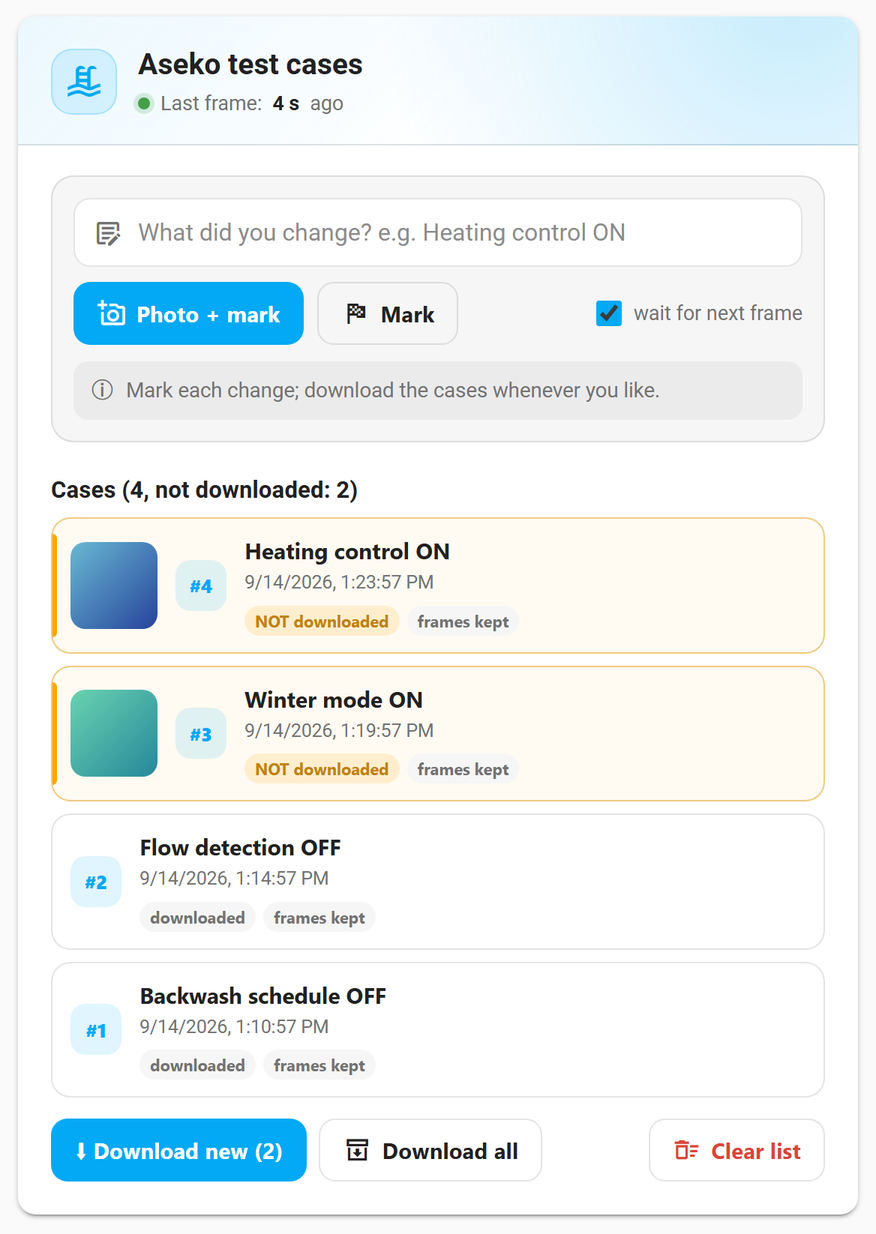
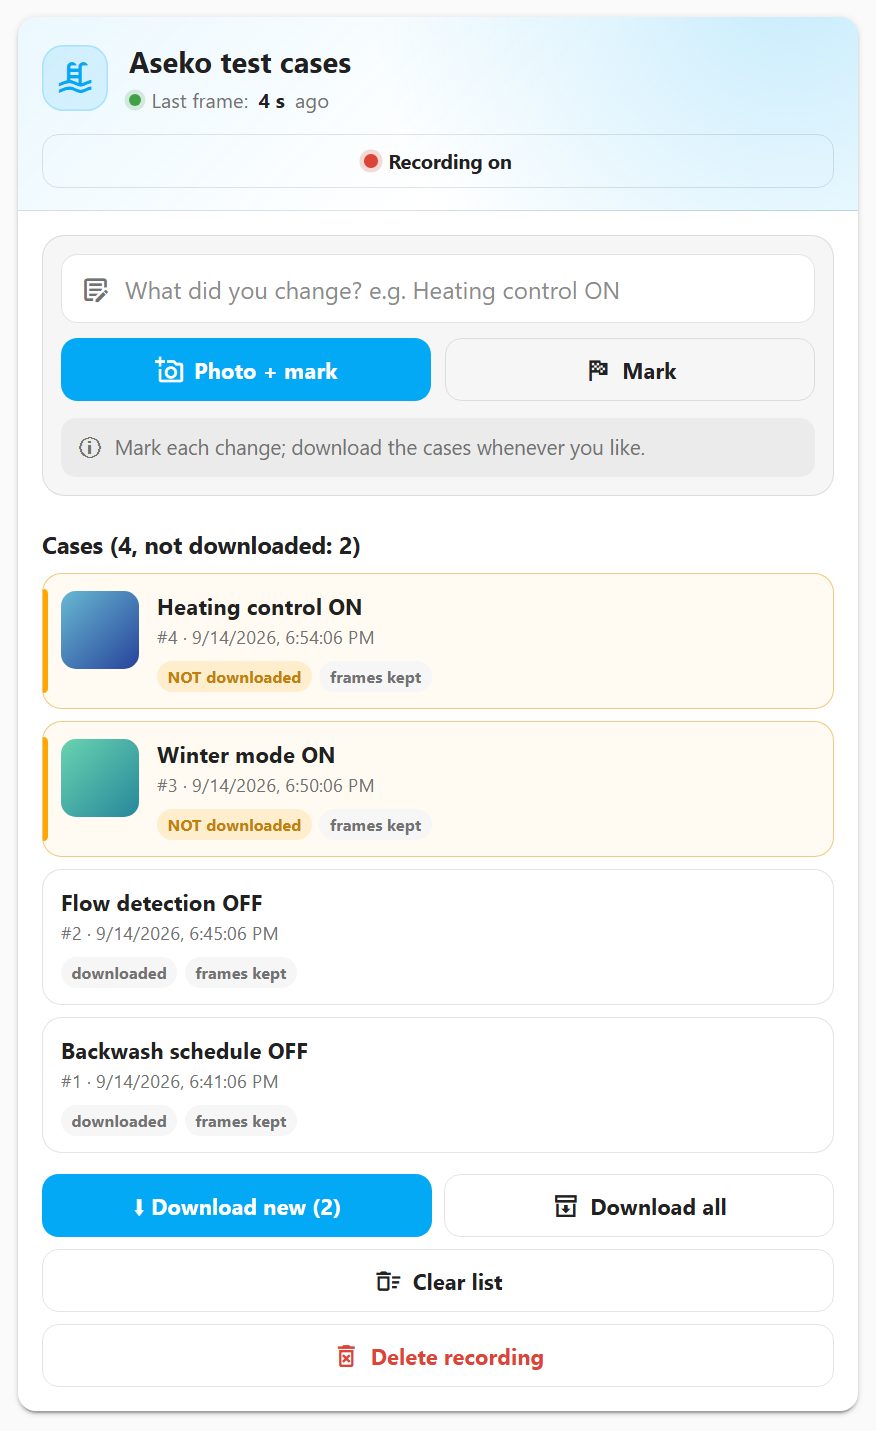
docs(README): test cases card screenshot with the recording switch, steps and buttons

diff --git a/README.md b/README.md
@@ -51,7 +51,9 @@ If you own an Aseko unit that is not listed above as fully supported, or the [su
 
 <img src="images/aseko_test_cases_card.png" alt="Aseko test cases card" width="438">
 
-**How it works.** While recording is on, the integration keeps a *frame log*: every frame the unit sends, compressed and capped at 256 kB (about five days of frames), kept across Home Assistant restarts. Recording is **off** until you turn it on in the card, and it stays the way you left it across restarts and updates. Each time you record a test case, the card writes a *marker* into that log, with your note and, if you like, a photo of the unit's display. Every change you make on the unit then sits right next to the frames that carry it — nobody has to compare clocks, and messengers cannot strip the time from the photos.
+**How it works.** While recording is on, the integration keeps a *frame log*: every frame the unit sends, compressed and capped at 256 kB (about five days of frames), kept across Home Assistant restarts. Each time you record a test case, the card writes a *marker* into that log, with your note and, if you like, a photo of the unit's display. Every change you make on the unit then sits right next to the frames that carry it — nobody has to compare clocks, and messengers cannot strip the time from the photos.
+
+Recording is **off** until you turn it on in the card, and it stays the way you left it across restarts and updates. Nothing is recorded while it is off.
 
 Add the card to any dashboard (it is loaded automatically, no resource to add):
 
@@ -63,13 +65,23 @@ Then, standing at the unit with your phone:
 
 > **Android:** open the dashboard in **Chrome** (your Home Assistant address, e.g. `http://192.168.1.10:8123`). The Home Assistant app offers only the gallery when the card asks for a photo, even with the camera permission granted; in Chrome **Photo + mark** opens the camera. A photo picked from the gallery works too.
 
-1. Check the header: **Last frame: N s ago** shows the unit is sending (a v7 unit sends about every 10 seconds). Tap **Recording off** to turn recording on; **Photo + mark** and **Mark** work only while it is on.
-2. Change **one** setting on the unit.
-3. Type what you changed, e.g. *Heating control ON*, and tap **Photo + mark** to photograph the display, or **Mark** without a photo. Either way the case is **not** written at the tap: the photo is stored at once, but the marker waits for the next whole frame from the unit (at most 60 seconds), because the unit may not have sent the change yet — with its settings menu open it sends nothing until the menu is closed. The card then says *frame received, go on with the next change*; only then change the next setting. When several units send to the same entry, pick the one you are testing in the **Unit** list.
-4. Repeat for as many changes as you like; switching a setting back is a useful case too. The cases stay in Home Assistant, so the list is the same on the phone and on a PC, and the ones not downloaded yet are highlighted.
-5. On any device tap **Download new**: one zip with the frames, the markers, the diagnostics and the photos. Open a new issue at [github.com/hopkins-tk/home-assistant-aseko-local](https://github.com/hopkins-tk/home-assistant-aseko-local/issues/new), say which model and firmware you have, and attach the zip.
+1. **Start recording.** Tap **Recording off** in the header; it turns into **Recording on** with a red dot. **Last frame: N s ago** shows the unit is sending (a v7 unit sends about every 10 seconds). **Photo + mark** and **Mark** work only while recording is on.
+2. **Change one setting** on the unit.
+3. **Mark it.** Type what you changed, e.g. *Heating control ON*, and tap **Photo + mark** to photograph the display, or **Mark** without a photo. The case is **not** written at the tap: the photo is stored at once, but the marker waits for the next whole frame from the unit (at most 60 seconds), because the unit may not have sent the change yet — with its settings menu open it sends nothing until the menu is closed. Wait for *frame received, go on with the next change* before the next change. When several units send to the same entry, pick the one you are testing in the **Unit** list.
+4. **Repeat** for as many changes as you like; switching a setting back is a useful case too. The cases stay in Home Assistant, so the list is the same on the phone and on a PC; the ones not downloaded yet are highlighted.
+5. **Download and share.** On any device tap **Download new**: one zip with the frames, the markers, the diagnostics and the photos. Open a new issue at [github.com/hopkins-tk/home-assistant-aseko-local](https://github.com/hopkins-tk/home-assistant-aseko-local/issues/new), say which model and firmware you have, and attach the zip.
+6. **Stop recording.** Tap **Recording on** when you are done. What was recorded stays until you delete it.
 
-**Download all** exports every case again; **Clear list** empties the list while frames and photos stay; **Delete recording** deletes every recorded frame, case and photo. Turn recording off when you are done: what was recorded stays until you delete it. The card follows the Home Assistant language (English, Slovak, Czech, German, French; `language: en` overrides it). Photos are downscaled to 2048 px and kept in `<config>/aseko_local/photos`, at most 200 photos or 100 MB (the oldest go first). The card and its endpoints are for admin users, like the diagnostics download.
+| Button | What it does |
+|---|---|
+| **Recording on / off** | starts or stops the frame log; the recorded frames stay either way |
+| **Photo + mark** / **Mark** | writes a case after the next frame, with or without a photo of the display |
+| **Download new** | a zip with the cases not downloaded yet; they count as downloaded once your browser has the whole zip |
+| **Download all** | every case again |
+| **Clear list** | empties the list of cases; frames and photos stay |
+| **Delete recording** | deletes every recorded frame, case and photo (asks first) |
+
+The card follows the Home Assistant language (English, Slovak, Czech, German, French; `language: en` overrides it). Photos are downscaled to 2048 px and kept in `<config>/aseko_local/photos`, at most 200 photos or 100 MB (the oldest go first). The card and its endpoints are for admin users, like the diagnostics download.
 
 > The frames and the unit's display carry its serial number; check the photos before you attach them to a public issue.
 
